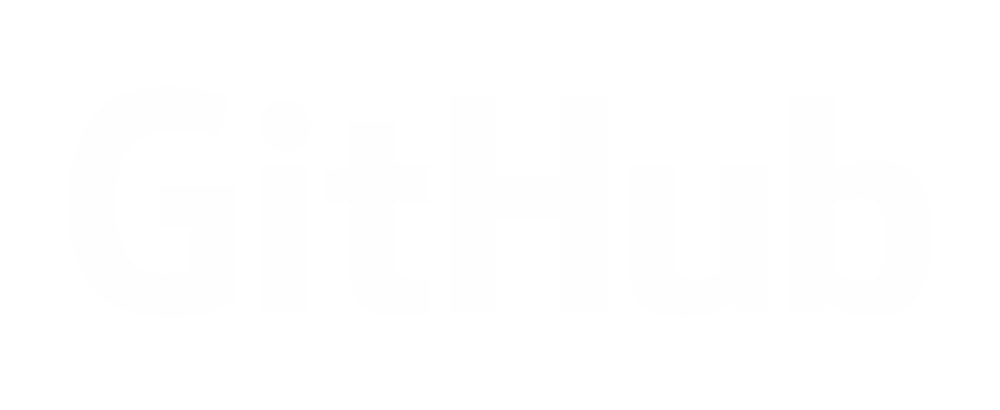
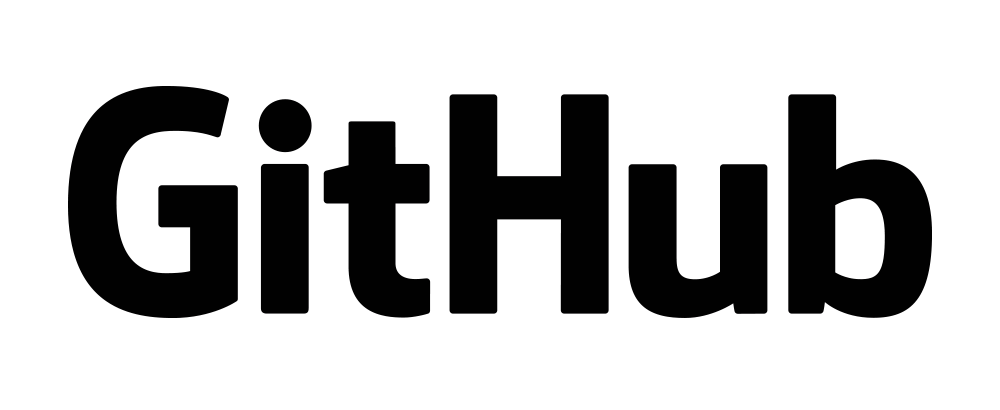
changed coloring and implemented useState in LP.

Changed region(s): [[0.062, 0.2049, 0.93, 0.7902]]

diff --git a/LoadingPage.js b/LoadingPage.js
@@ -6,6 +6,8 @@ import { TouchableOpacity } from 'react-native-web';
 import Icon from 'react-native-vector-icons/AntDesign';
 import { useNavigation } from "@react-navigation/native";
 import LogRocket from 'logrocket';
+import { useState } from "react";
+
 
 
 const LoadingPage = () => {
@@ -25,19 +27,20 @@ const LoadingPage = () => {
 
 export default LoadingPage;
 
+
 const TitleBar = (props) => {
     return (
       <View style={styles.titleBar}>
         <Text
           style={{
-            color: 'white',
+            color: 'black',
             fontSize: '150%',
           }}
           numberOfLines={1}
         >Psychology of Interfaces</Text>
         <Text 
           style={{
-            color: 'white',
+            color: 'black',
             fontSize: '80%',
           }}
         >An Independent Study by Davis Haden</Text>
@@ -59,52 +62,74 @@ const BackArrow = (props) => {
         <Icon.Button
             name="leftcircleo"
             color="white"
-            backgroundColor= '#d2bfff'
+            backgroundColor= '#734b5e'
             size={30}
             onPress={() => {navigation.navigate("Home");}}
         />
     );
 }
 
-const changeView = () => {
-  setTimeout(function(){
- 
-    //alert("Refresh");
-  
-  }, Math.random()*10*1000);
-}
+
 
 const LoadingBlock = () => {
+const [waitBlock, setwaitBlock] = useState(true);
+    const changeView = () => {
+
+      setTimeout(function(){
+        setwaitBlock(false);
+      
+      }, Math.random()*20*1000);
+    }
     changeView();
-    return(
-      <View style={styles.loading}>
-        <Image 
-            style={{width: 50, height: 50, marginBottom: 20,}} 
-            source={require('./assets/loading.gif')}
+    if (waitBlock) {
+      return(
+        <View style={styles.loading}>
+          <Image 
+              style={{width: 50, height: 50, marginBottom: 20,}} 
+              source={require('./assets/loading.gif')}
+            />
+            <Text
+            style={{
+              color: 'black',
+              fontSize: '15px',
+            }}
+            >Please wait while the content loads...</Text>
+            <TouchableOpacity
+            onPress={() => {window.location.reload();}}
+            >
+              <Text
+              style={{
+                color: 'black',
+                fontSize: '15px',
+                marginTop: '10px',
+              }}
+              >Not working? Click here to refresh.</Text>
+            </TouchableOpacity>
+        </View>
+      ); 
+    }else{
+      return (
+        <View style={styles.noLoad}>
+          <Image 
+            style={{width: '50%', height: '100%', marginBottom: 10}} 
+            source={require('./assets/kermit.gif')}
           />
           <Text
           style={{
-            color: 'white',
-            fontSize: '15px',
+            color: 'black',
+            fontSize: '120%',
           }}
-          >Please wait while the content loads...</Text>
-          <TouchableOpacity>
-            <Text
-            style={{
-              color: 'white',
-              fontSize: '15px',
-              marginTop: '10px',
-            }}
-            >Not working? Click here to refresh.</Text>
-          </TouchableOpacity>
-      </View>
-    ); 
+          >Congrats! You stayed for the page to load! Now do a happy dance!</Text>
+        </View>
+      );
+    }
+    
 }
 
 const styles = StyleSheet.create({
     container: {
         flex: 1,
-        backgroundColor: '#d2bfff',
+        backgroundColor: '#734b5e',
         alignItems: 'center',
         padding: 8,
     },
@@ -112,7 +137,7 @@ const styles = StyleSheet.create({
         width: '100%',
         minHeight: 120,
         flexDirection: "row",
-        backgroundColor: '#d2bfff',
+        backgroundColor: '#734b5e',
         justifyContent: 'center',
         alignItems: 'center',
         padding: 8,
@@ -120,7 +145,7 @@ const styles = StyleSheet.create({
     titleBar: {
         flex: 1,
         padding: 8,
-        backgroundColor: '#c0a7fa',
+        backgroundColor: '#FFFFED',
         alignItems: 'center',
         justifyContent: 'center',
         maxHeight: 100,
@@ -149,9 +174,21 @@ const styles = StyleSheet.create({
         maxwidth: 100,
         alignItems: 'center',
         justifyContent: 'center',
-        backgroundColor: '#c0a7fa',
+        backgroundColor: '#FFFFED',
         borderRadius: 10,
         padding: 8,
+        shadowOpacity: 0.29,
+        shadowRadius: 10,
+      },
+      noLoad: {
+        flex: 1,
+        maxHeight: 350,
+        Width: '50%',
+        alignItems: 'center',
+        justifyContent: 'center',
+        backgroundColor: '#FFFFED',
+        borderRadius: 10,
+        padding: 40,
         shadowOpacity: 0.29,
         shadowRadius: 10,
       }

diff --git a/HomeScreen.js b/HomeScreen.js
@@ -12,6 +12,7 @@ const HomeScreen = () => {
       <View style={styles.container}>
         <StatusBar style="auto" />
         <TitleBar/>
+        <DescBar/>
         <BlockMenu/>
       </View>
   );
@@ -22,13 +23,13 @@ const TitleBar = (props) => {
     <View style={styles.titleBar}>
       <Text
         style={{
-          color: 'white',
+          color: 'black',
           fontSize: '180%',
         }}
       >Psychology of Interfaces</Text>
       <Text 
         style={{
-          color: 'white',
+          color: 'black',
           fontSize: '100%',
         }}
       >An Independent Study by Davis Haden</Text>
@@ -44,11 +45,36 @@ const TitleBar = (props) => {
   );
 }
 
+const DescBar = (props) => {
+  return (
+    <View style={styles.descBar}>
+      <Text
+        style={{
+          color: 'black',
+          fontSize: '150%',
+        }}
+      >What is this project?</Text>
+      <View style={{
+        width: '100%',
+      }}>
+      <Text style={{
+        width: '100%',
+        flexWrap: 'wrap',
+        color: 'black',
+        fontSize: '100%',
+      }}>
+        The way that we perceive our interactions with other people should be applied to the way that we interact with technology and interfaces around us. Interaction is a mutual exchange and the coder behind the technology has a responsibility to persuade the user into engaging. Therefore, this purpose of this Independent Study is to analyze the ways people currently engage with technology through analysing how triggers such as emotional, habitual, visual, audible triggers affect our interactions with technology daily. All of the activities below will contribute to my research.
+      </Text>
+      </View>
+    </View>
+  );
+}
+
 const BlockMenu = (props) => {
+  //<ExperimentBlock title="App Survey" page="Survey" />
   return (
     <View style={styles.BlockMenu}>
-      <ExperimentBlock title="Loading Test" page="Loading"/>
-      <ExperimentBlock title="App Survey" page="Survey"/>
+      <ExperimentBlock title="Website Compatibility Check" page="Loading" desc="This page will analyze your browser and track compatibility for the website. Please do this before continuing to other activities"/>
     </View>
   );
 }
@@ -62,8 +88,16 @@ const ExperimentBlock = (props) => {
         style={{
           color: 'black',
           fontSize: '120%',
+          textAlign: 'center',
         }}
         >{props.title}</Text>
+        <Text
+        style={{
+          color: 'black',
+          fontSize: '75%',
+          marginTop: 5,
+        }}
+        >{props.desc}</Text>
       </View>
     </TouchableOpacity>
   );
@@ -74,13 +108,13 @@ export default HomeScreen;
 const styles = StyleSheet.create({
   container: {
     flex: 1,
-    backgroundColor: '#d2bfff',
+    backgroundColor: '#734b5e',
     alignItems: 'center',
     padding: 8,
   },
   titleBar: {
     flex: 1,
-    backgroundColor: '#c0a7fa',
+    backgroundColor: '#FFFFED',
     alignItems: 'center',
     justifyContent: 'center',
     maxHeight: 100,
@@ -96,16 +130,36 @@ const styles = StyleSheet.create({
     elevation: 7,
     marginBottom: 10,
   },
+
+  descBar: {
+    padding: 10,
+    backgroundColor: '#FFFFED',
+    alignItems: 'center',
+    justifyContent: 'center',
+    maxHeight: '50%',
+    width: '90%',
+    shadowColor: "#000",
+    shadowOffset: {
+      width: 0,
+      height: 3,
+    },
+    shadowOpacity: 0.29,
+    shadowRadius: 4.65,
+    borderRadius: 10,
+    elevation: 7,
+    marginBottom: 10,
+  },
+
   BlockMenu: {
     flexDirection: 'row',
     flexWrap: 'wrap',
-    backgroundColor: '#d2bfff',
+    backgroundColor: '#734b5e',
     justifyContent: 'center',
     alignItems: 'center',
     padding: 8,
   },
   ExperimentBlock: {
-    backgroundColor: 'rgba(255, 255, 255, 0.7)',
+    backgroundColor: 'rgb(255, 255, 237)',
     alignItems: 'center',
     padding: 10,
     width: 200,

diff --git a/SurveyPage.js b/SurveyPage.js
@@ -24,13 +24,13 @@ const TitleBar = (props) => {
       <View style={styles.titleBar}>
         <Text
           style={{
-            color: 'white',
+            color: 'black',
             fontSize: '150%',
           }}
         >Psychology of Interfaces</Text>
         <Text 
           style={{
-            color: 'white',
+            color: 'black',
             fontSize: '80%',
           }}
         >An Independent Study by Davis Haden</Text>
@@ -52,7 +52,7 @@ const BackArrow = (props) => {
         <Icon.Button
             name="leftcircleo"
             color="white"
-            backgroundColor= '#d2bfff'
+            backgroundColor= '#734b5e'
             size={30}
             onPress={() => {navigation.navigate("Home");}}
         />
@@ -62,7 +62,7 @@ const BackArrow = (props) => {
 const styles = StyleSheet.create({
     container: {
         flex: 1,
-        backgroundColor: '#d2bfff',
+        backgroundColor: '#734b5e',
         alignItems: 'center',
         padding: 8,
     },
@@ -70,7 +70,7 @@ const styles = StyleSheet.create({
         width: '100%',
         minHeight: 120,
         flexDirection: "row",
-        backgroundColor: '#d2bfff',
+        backgroundColor: '#734b5e',
         justifyContent: 'center',
         alignItems: 'center',
         padding: 8,
@@ -78,7 +78,7 @@ const styles = StyleSheet.create({
     titleBar: {
         flex: 1,
         padding: 8,
-        backgroundColor: '#c0a7fa',
+        backgroundColor: '#FFFFED',
         alignItems: 'center',
         justifyContent: 'center',
         maxHeight: 100,
